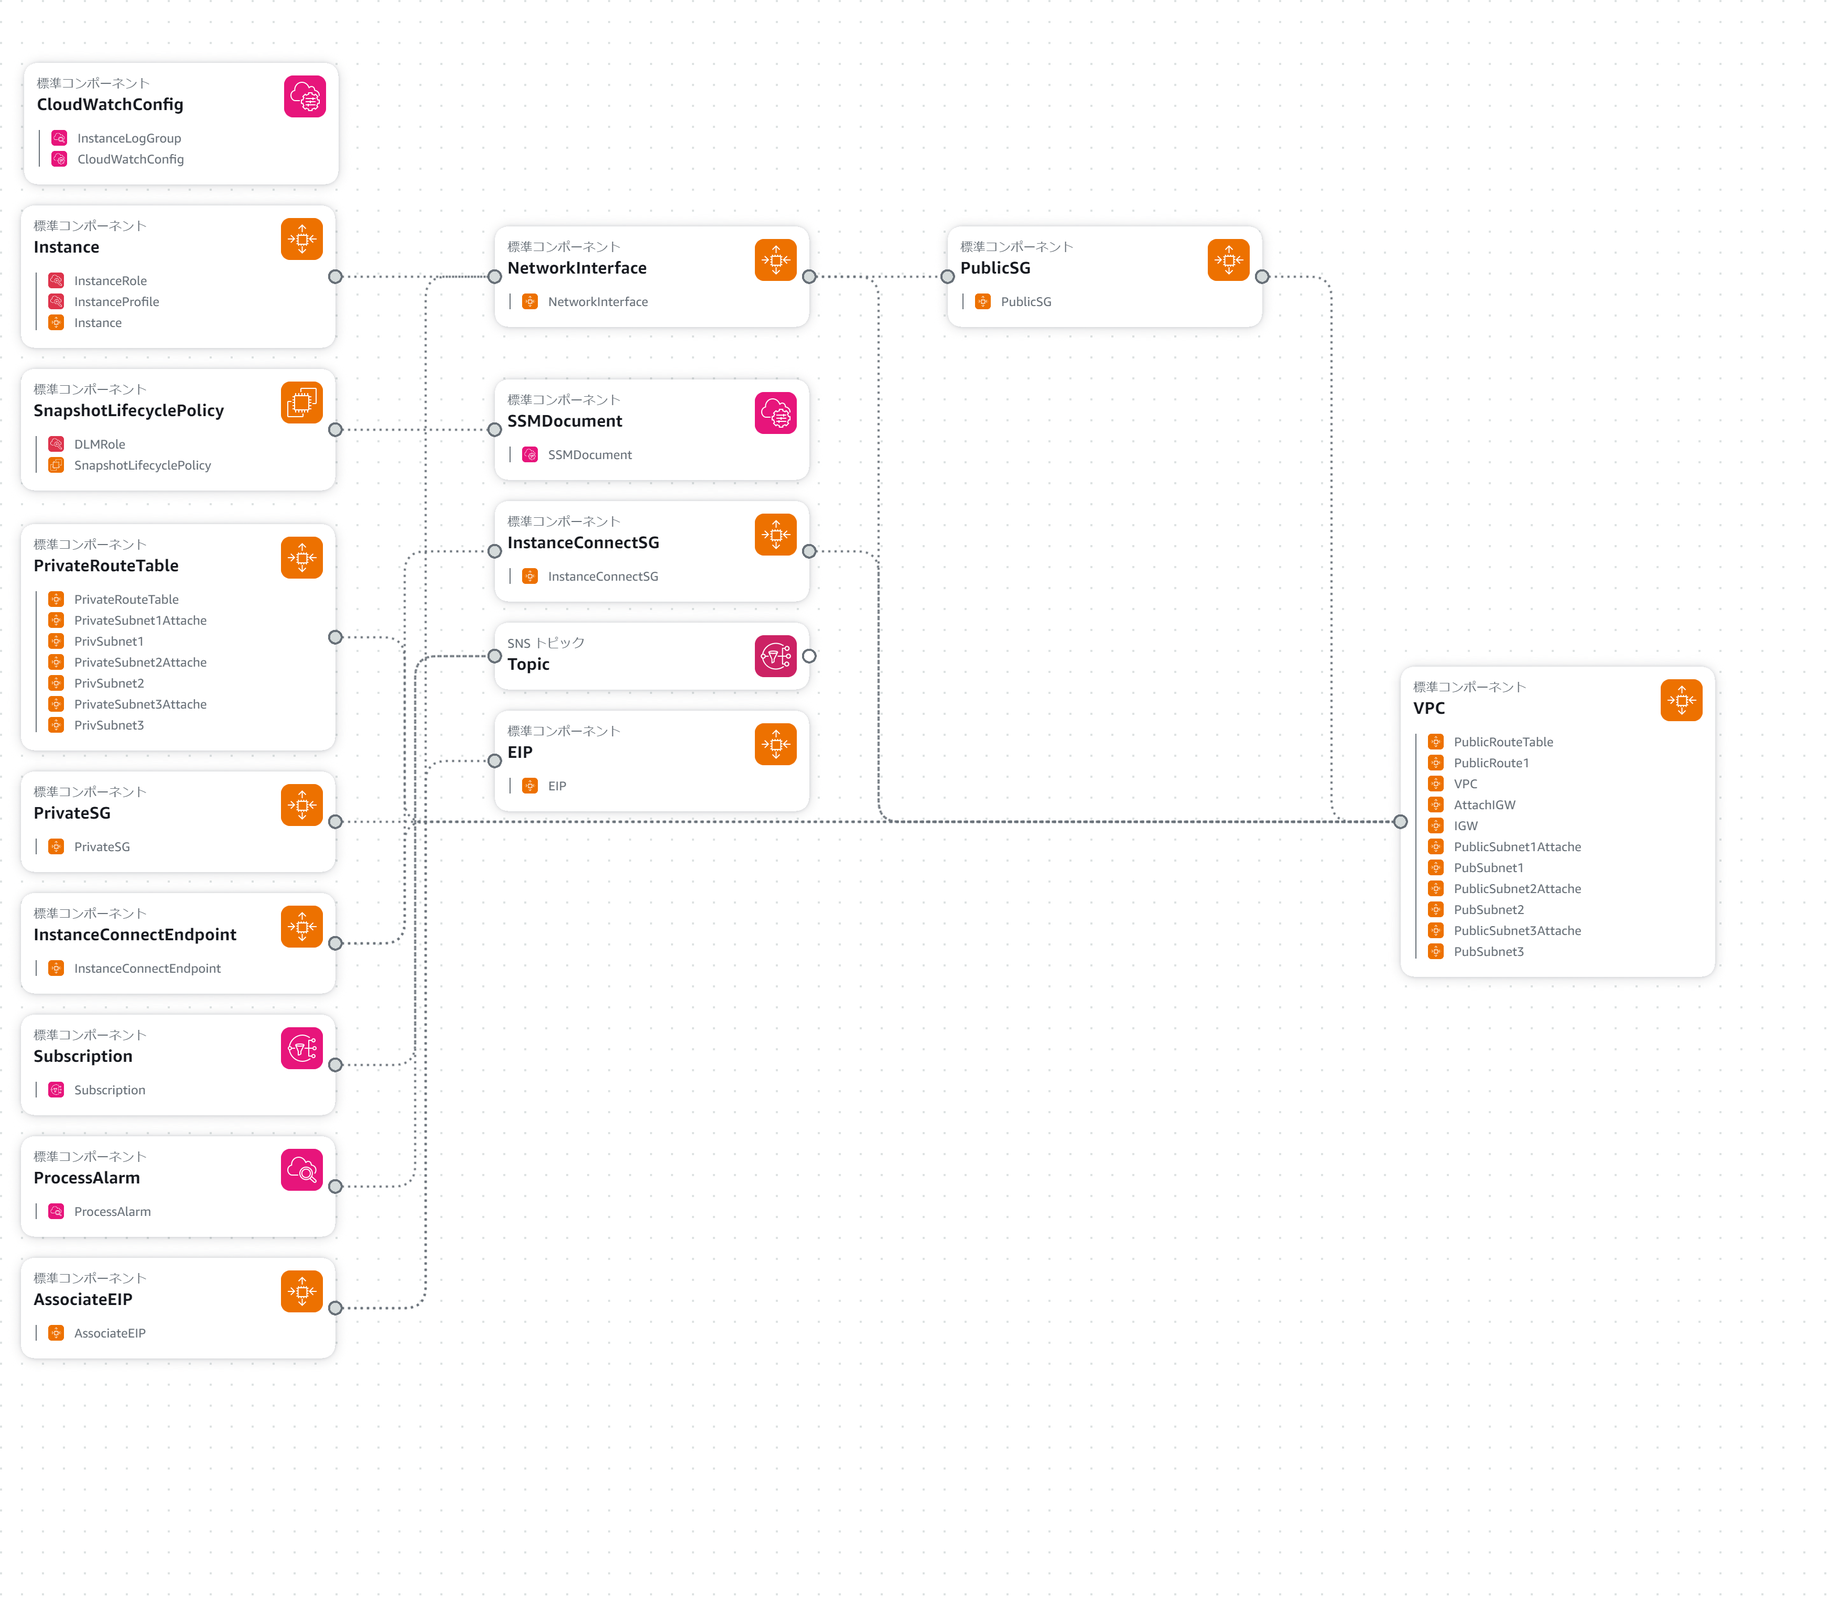
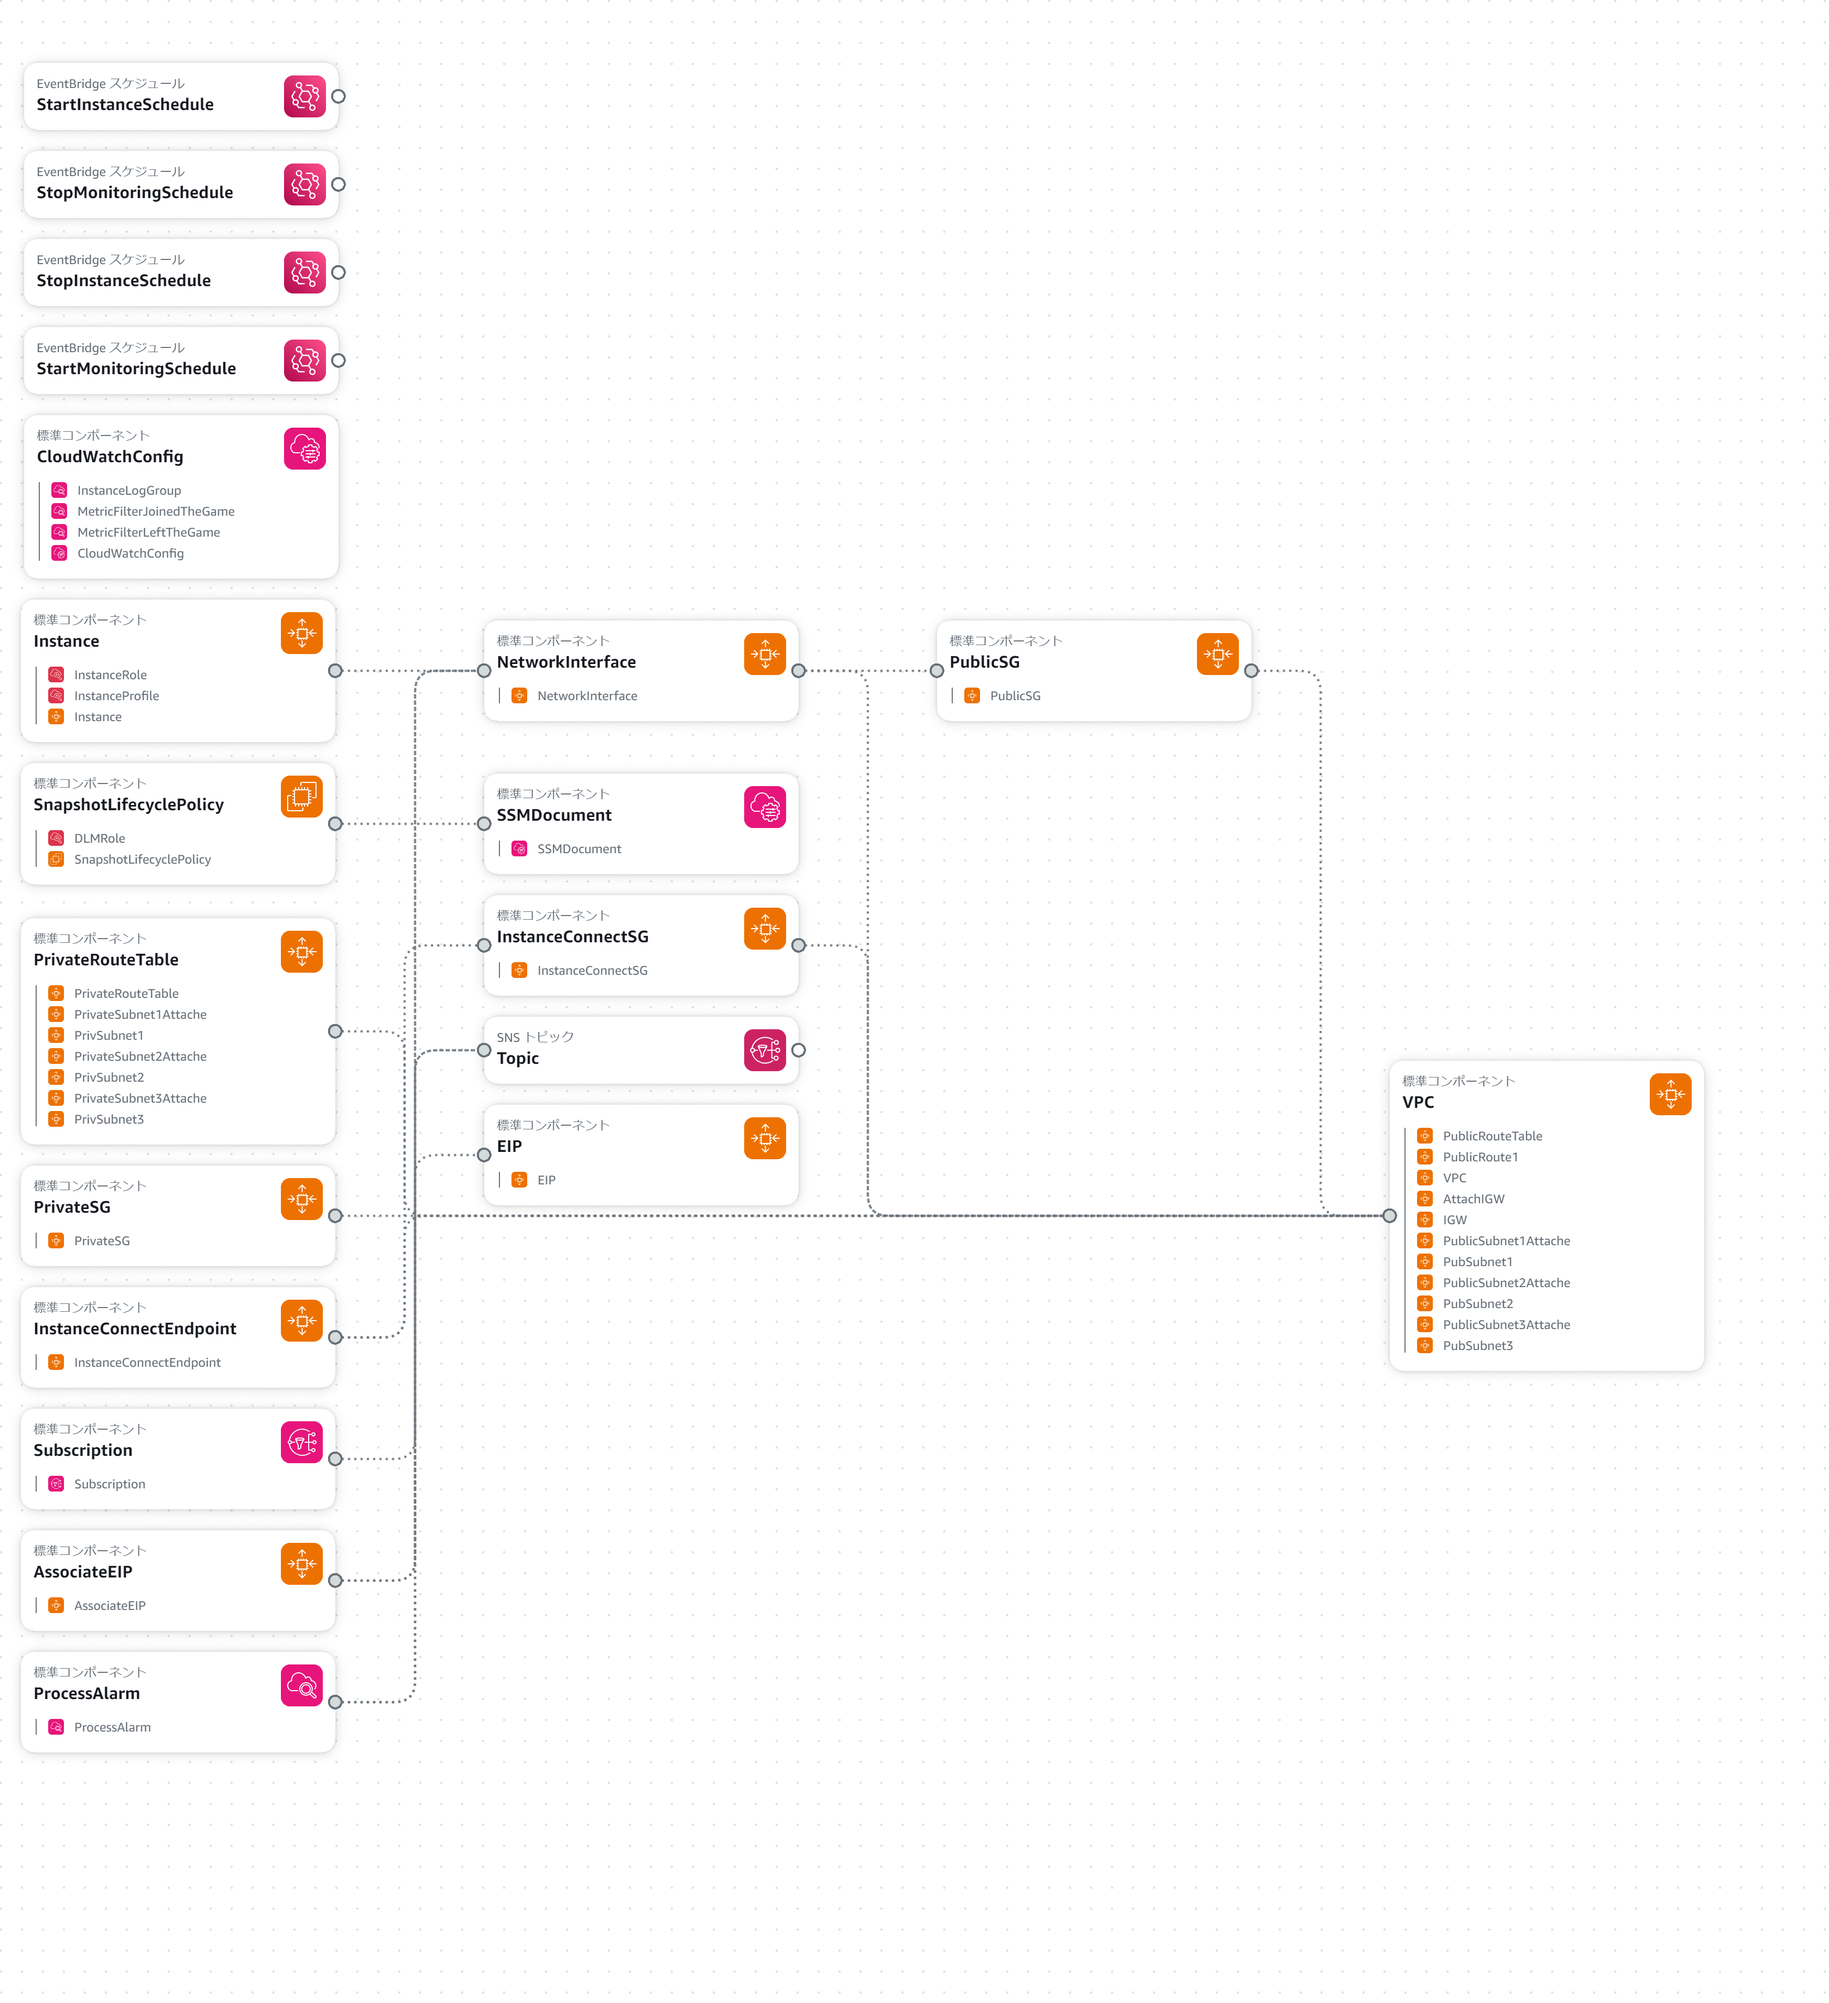
README を記述

diff --git a/README.md b/README.md
@@ -4,17 +4,59 @@ A tools to create and manage minecraft server on AWS.
 
 ## 概要
 
-Minecraft サーバを AWS 上に構築し、運用する為のテンプレートです。
-サーバに加えて、運用に必要なリソースも一緒に構築します。
+- Minecraft サーバを AWS 上に構築し、運用する為のテンプレート
+- サーバに加えて、運用に必要なリソースも一緒に構築する
 
 ## 環境
 
 - OS: Ubuntu 24.04
 - Minecraft: 1.21.1
+  - バージョンを変えたい場合、template.yaml 内の Instance セクション、Userdata に記述されている wgt URL を最新版に書き換える事
 
-## 構築リソース
+## デプロイ方法
+
+- AWS CloudFormation コンソールより、本テンプレートを選択してデプロイする
+- 基本的に、Minecraft 1.21.1 をプレイする分にはパラメータ設定不要
+
+## 構築リソース一覧
 
 ![resources](/images/application-composer-template.yaml.png)
 
 ## 機能
 
+### Minecraft サーバ
+
+- 構築完了時点で、Minecraft が起動している
+- ポート開放済みかつ固定 Ip も付与される為、友人に連携すればすぐにマルチプレイ可能
+- デフォルト設定では、Minecraft で利用する最大メモリサイズは 1024 になっている
+  - t3.small の場合の適正サイズ
+  - インスタンスサイズによって適宜修正する事
+
+### EC2 Instance Connect Endpoint を使った SSH 接続
+
+- 本テンプレートでは、EC2 Instance Connect Endpoint を構築している
+- EC2 コンソールから Minecraft サーバを選んで、「接続」を押下する事で SSH 可能
+
+### DLM を使った スナップショットの自動取得
+
+- Data Cycle Manager を使ってサーバのスナップショットを自動で取得する
+- 事前/事後スクリプト用の SSM Document も作成する為、Minecraft サービスを停止してからスナップショットを取得する
+- デフォルトでは1日１回、毎朝 9:00 に取得して14世代分保管する
+
+### インスタンスの起動・停止スケジューリング
+
+- コスト削減の為、指定した時間で Minecraft サーバを起動・停止する
+- デフォルトでは毎日 18:00 に起動し、 3:00に停止する
+
+### Minecraft 運用で必要な監視設定
+
+- Minecraft サーバの稼働状況を監視する為、CloudWatch Agent をインストールし、ログとメトリクスを取得する
+- 監視設定について、プロセスのメトリクスに対してアラームを設定する
+- Metics Filter で「joinded the game」「left the game」をそれぞれカウントする
+  - ダッシュボードで差分を計算すると、現在ログインしているユーザ数を確認できる
+
+### プロセス監視の静観設定
+
+- インスタンス起動・停止をスケジューリングする場合、停止する度にアラームが発報される
+- その為、インスタンス起動・停止の直前にアラームをオフにする事が可能
+- デフォルトでは毎日 18:15 にアラームが有効になり、2:45 に無効になる
